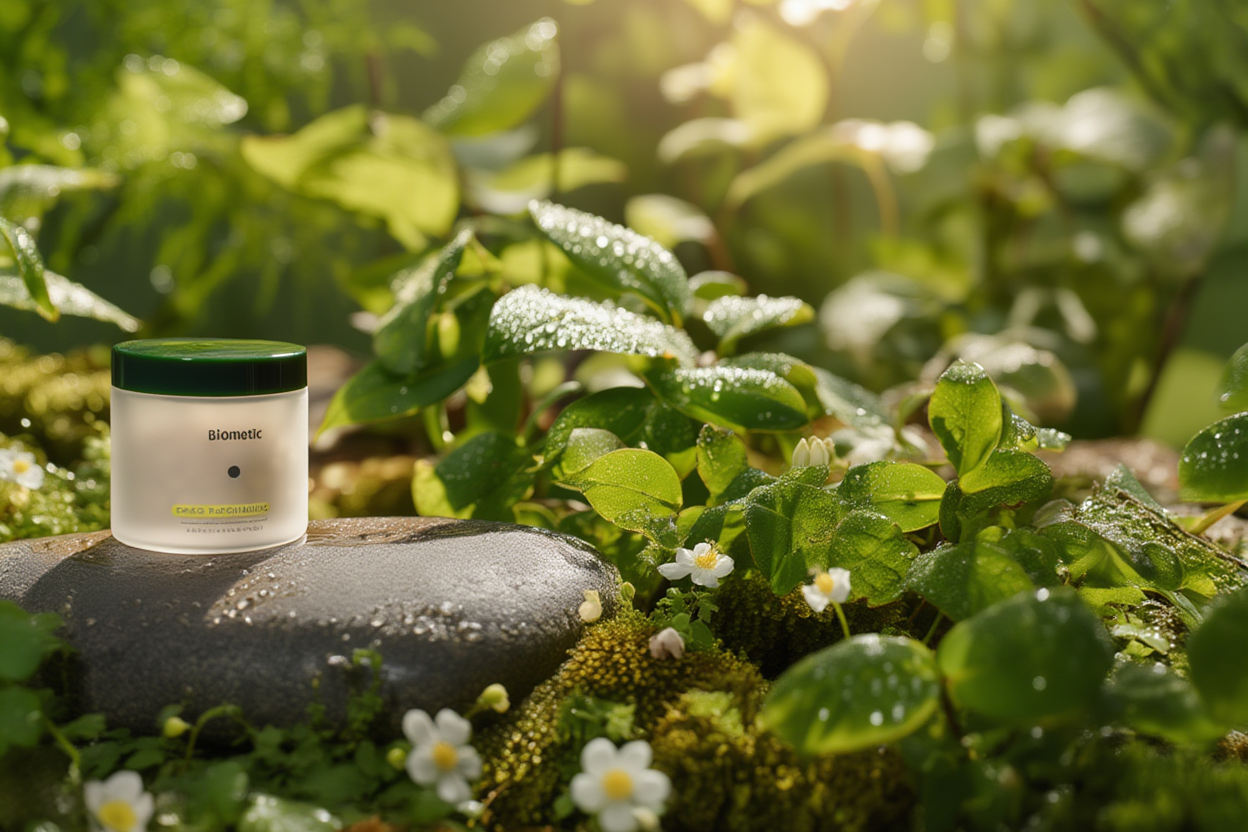
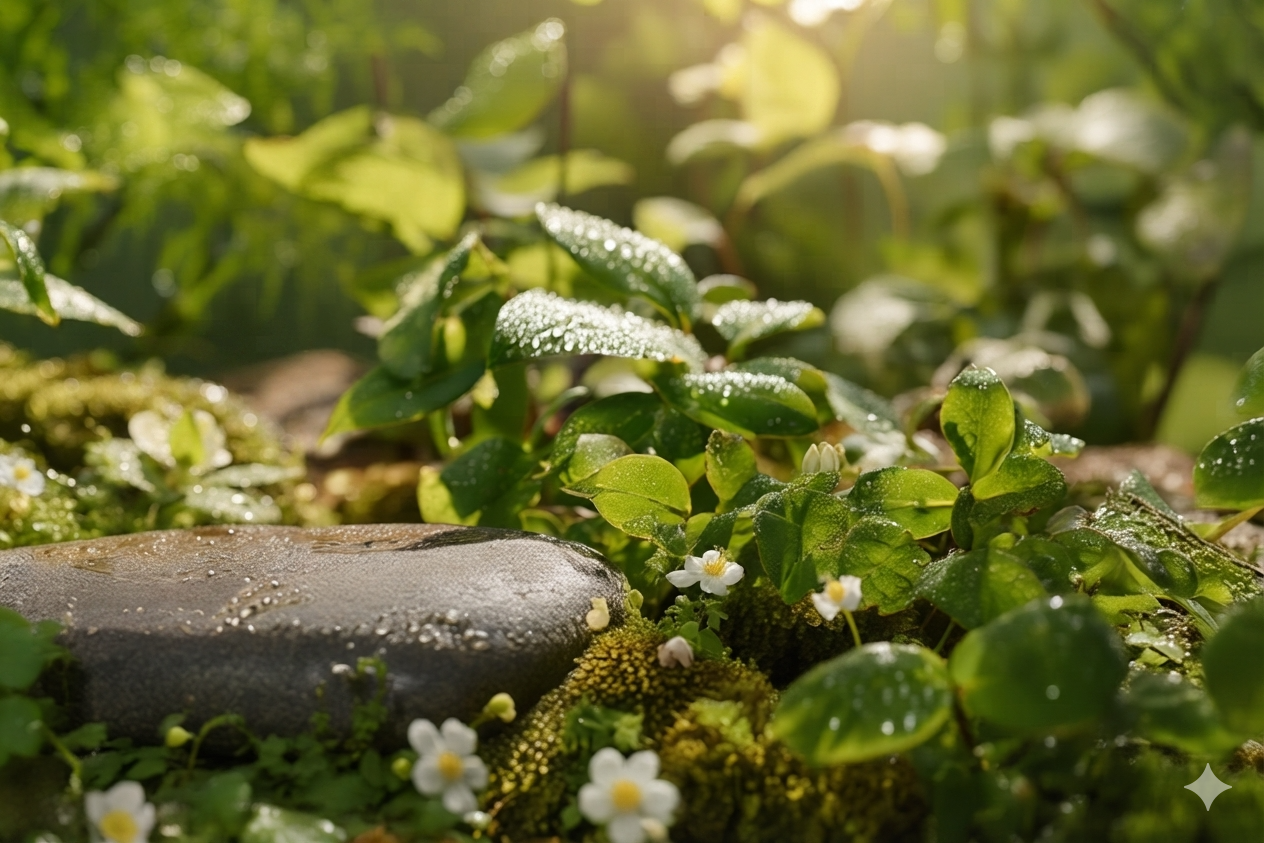
feat: update product catalog content, refresh static assets, and configure webpack dev script

diff --git a/components/landing-page/product-section.tsx b/components/landing-page/product-section.tsx
@@ -7,22 +7,22 @@ import { ScrollBlurText } from "@/components/scroll-blur-text"
 
 const products = [
   {
-    name: "Hygiene Products",
-    description: "Cost-effective hygiene products made to reduce dirtiness and support cleaner everyday spaces.",
+    name: "Terso Dish Washing (25Ltr)",
+    description: "Effective on grease and grime, dissolves dirt quickly while remaining mild and gentle on hands. Safe for use on all kitchen surfaces, safe on hands.",
     image: "/images/product-equilibrium.png",
     tag: "Products",
   },
   {
-    name: "Safe Production",
-    description: "Process-led production focused on safe practice, consistency, and industrial standard procedures.",
-    image: "/images/product-serenity.png",
+    name: "Terso Dish Washing (41C)",
+    description: "Cost effective quality detergent. Gentle on the hand, tough on dirt and grease.",
+    image: "/images/product-serenity1.png",
     tag: "Process",
   },
   {
-    name: "Quality Formulation",
-    description: "Affordable formulas designed for customers to use effectively without compromising quality.",
-    image: "/images/product-vitality.png",
-    tag: "Formula",
+    name: "Terso Dish Washing (25Ltr)",
+    description: "Effective on grease and grime, dissolves dirt quickly while remaining mild and gentle on hands. Safe for use on all kitchen surfaces, safe on hands.",
+    image: "/images/product-equilibrium.png",
+    tag: "Products",
   },
 ]
 

diff --git a/components/landing-page/mission-section.tsx b/components/landing-page/mission-section.tsx
@@ -59,7 +59,7 @@ export function MissionSection() {
                   needed a practical solution to reduce dirtiness in Nigeria.
                 </p>
                 <p>
-                  Her mission is ensuring maximum perfection in every step. Terso's vision is to build trust, ensure
+                  Her mission is ensuring maximum perfection in every step. Terso&apos;s vision is to build trust, ensure
                   safe practice in every production, and maintain industrial standard procedures.
                 </p>
               </div>